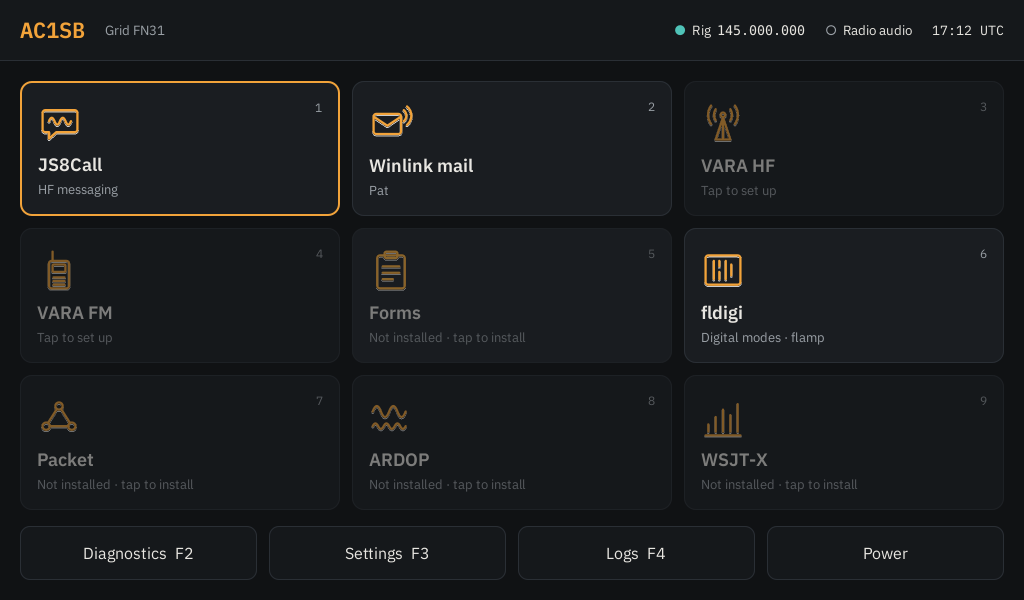
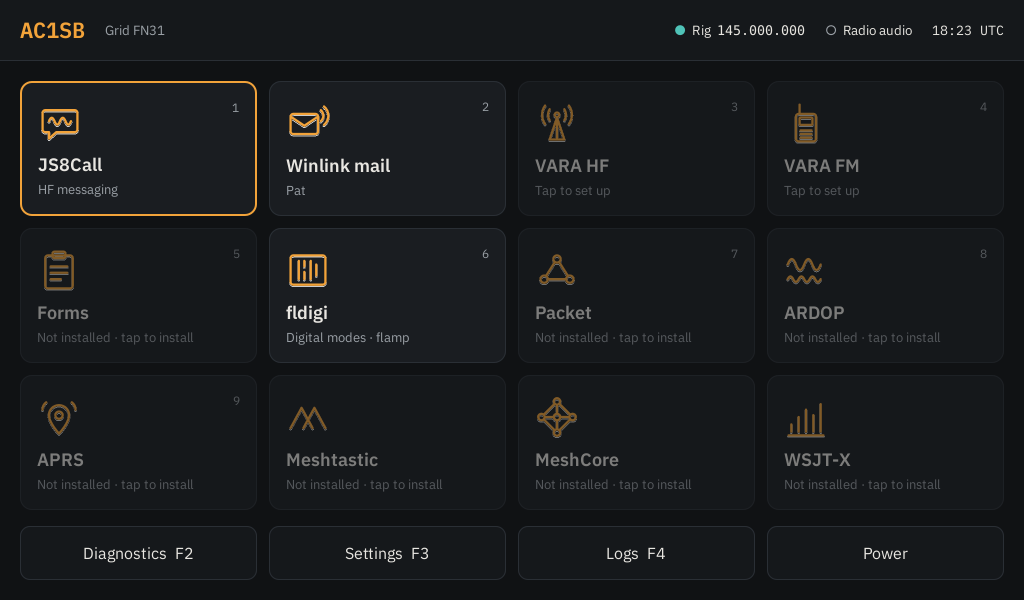
APRS (Xastir), Meshtastic and MeshCore tiles
Claude-Session: https://claude.ai/code/session_016N9FLiakM7osqgmyw9jwVg

diff --git a/tests/test_app_setup.py b/tests/test_app_setup.py
@@ -86,6 +86,27 @@ class AppSetupTest(unittest.TestCase):
         self.run_helper("js8call")
         self.assertEqual(self.read(path), "[Configuration]\nMyCall=CHANGED\n")
 
+    def test_xastir_position_from_grid_and_agwpe_port(self):
+        cnf = self.read(self.run_helper("xastir"))
+        self.assertIn("STATION_CALLSIGN:AC1SB\n", cnf)
+        self.assertIn("STATION_LAT:4143.750N\n", cnf)
+        self.assertIn("STATION_LONG:07242.500W\n", cnf)
+        self.assertIn("DEVICE0_TYPE:12\n", cnf)
+        self.assertIn("DEVICE0_SPEED:8000\n", cnf)
+
+    def test_xastir_keeps_operator_interfaces(self):
+        path = os.path.join(self.home, ".xastir/config/xastir.cnf")
+        os.makedirs(os.path.dirname(path))
+        with open(path, "w") as f:
+            f.write("STATION_CALLSIGN:N0CALL\nDEVICE0_TYPE:1\nDEVICE0_SPEED:9600\nMAP_BGCOLOR:3\n")
+        self.set_station(callsign="w1aw", grid="FN31")
+        cnf = self.read(self.run_helper("xastir")).splitlines()
+        self.assertIn("STATION_CALLSIGN:W1AW", cnf)
+        self.assertNotIn("STATION_CALLSIGN:N0CALL", cnf)
+        self.assertIn("DEVICE0_SPEED:9600", cnf)
+        self.assertIn("MAP_BGCOLOR:3", cnf)
+        self.assertNotIn("DEVICE0_TYPE:12", cnf)
+
 
 if __name__ == "__main__":
     unittest.main()

diff --git a/README.md b/README.md
@@ -29,8 +29,9 @@ environment.
   icon" puts it back. **Light mode** / **Dark mode** in Settings switches the colours
   (light is easier to read in daylight); the choice is remembered.
 - **Radio apps:** JS8Call, WSJT-X, fldigi with flamp, flmsg (ICS-213 forms), Pat for
-  Winlink mail, VARA HF and VARA FM (under Wine), ARDOP (ardopcf) and Direwolf for
-  packet. Every app reaches the radio through `rigctld`, so CAT and PTT are set up
+  Winlink mail, VARA HF and VARA FM (under Wine), ARDOP (ardopcf), Direwolf for
+  packet, Xastir for APRS, and the Meshtastic (`contact`) and MeshCore
+  (`meshcore-cli`) clients for LoRa mesh radios. Every app reaches the radio through `rigctld`, so CAT and PTT are set up
   once, in Settings. Callsign and grid are filled in for each app.
 - **Logs:** JS8Call messages and activity, WSJT-X contacts and Winlink mail in one
   place, plus a box to note a voice or other contact. Notes get the UTC time,
@@ -63,6 +64,17 @@ environment.
 - **Audio:** whenever the radio's sound card is plugged in, the station makes it the
   default speaker and microphone, so apps left on their "default" sound device use
   the radio. (`emcomm-audio-default` does this; Diagnostics shows the current default.)
+- **APRS:** the APRS tile starts Direwolf (1200 baud, for 2 m APRS on 144.390 MHz
+  in North America) and opens Xastir with your callsign, and your position taken
+  from the centre of your grid square. Direwolf stops when Xastir closes. Xastir
+  only fills in its radio connection the first time, so changes you make in
+  Interface Control stick. For HF APRS at 300 baud, put your own Direwolf settings
+  in `~/.config/emcomm/direwolf.custom.conf`.
+- **Meshtastic and MeshCore:** plug the node in by USB and tap its tile. The tile
+  finds the node's USB port (skipping the radio's CAT and PTT ports) and asks which
+  one if more than one is plugged in. Meshtastic opens `contact`, a full-screen
+  text client for messages, nodes and settings; MeshCore opens `meshcore-cli`,
+  where `?` lists its commands.
 - **fldigi:** in Configure > Rig control > Hamlib, pick "Hamlib NET rigctl" with
   device `localhost:4532`, and pick the sound card under Audio.
 
@@ -157,7 +169,8 @@ seconds (connect an antenna or dummy load first).
   computer, put it on a USB stick, plug it in and tap the tile.
 - **Winlink mail (Pat):** open it and, on Pat's configuration page, enter your
   Winlink password. Callsign, grid and rig control are already filled in.
-- **JS8Call, WSJT-X, Forms, Packet and ARDOP** are ready to use. fldigi needs its rig
+- **JS8Call, WSJT-X, Forms, Packet, ARDOP, APRS, Meshtastic and MeshCore** are
+  ready to use once installed from their tiles. fldigi needs its rig
   control pointed at `localhost:4532` once (see "Using the apps" above).
 
 ### Updating
